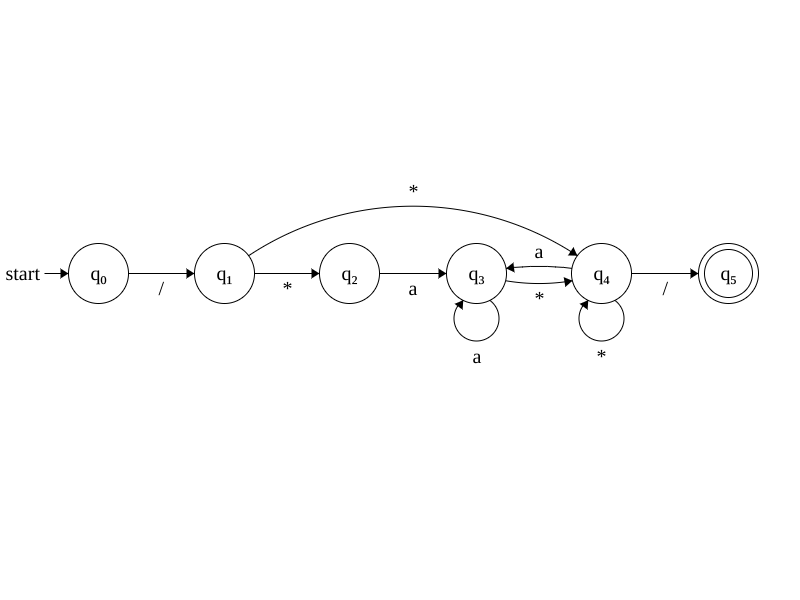
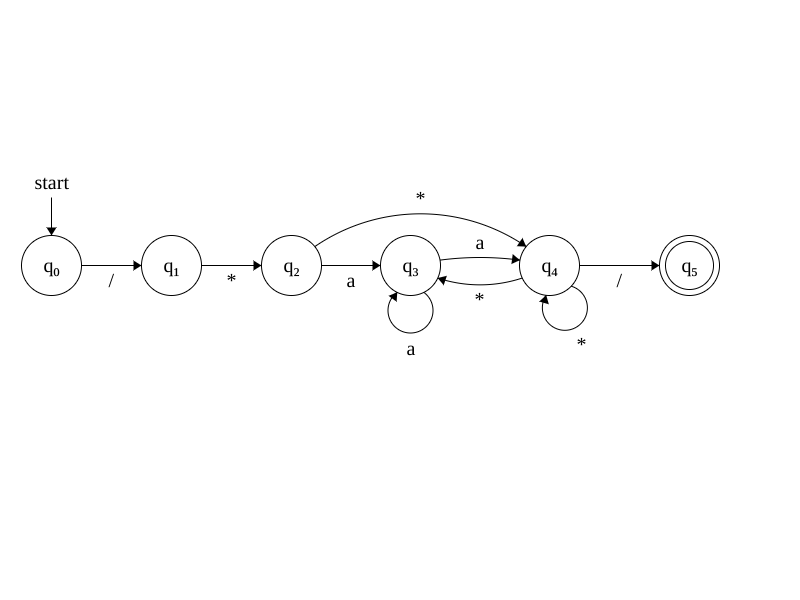
Added Esercizio 1.11

Changed region(s): [[0.0, 0.3, 0.9688, 0.57], [0.5, 0.54, 0.5312, 0.6], [0.0312, 0.3, 0.0938, 0.33]]

diff --git a/Gruppo 1 (Automi)/Esercizio 1.11/src/Esercizio11.java b/Gruppo 1 (Automi)/Esercizio 1.11/src/Esercizio11.java
@@ -1,4 +1,4 @@
-public class Esercizio10 {
+public class Esercizio11 {
 
     public static boolean scan(String s) {
         int state = 0, i = 0;
@@ -9,44 +9,56 @@ public class Esercizio10 {
             switch(state) {
           	    case 0:
             		    if(ch == '/')
-            			    state = 1;
+            			      state = 1;
+                    else if(ch == 'a' || ch == '*')
+                        state = 0;
             		    else
-            			    state = -1;
-          	    break;
+		                    state = -1;
+          	     break;
 
                 case 1:
             		    if(ch == '*')
-                    		  state = 2;
+                		    state = 2;
             		    else
-                   		  state = -1;
+               		      state = -1;
           	    break;
 
                 case 2:
                     if(ch == '*')
-                      state = 4;
+                        state = 4;
                     else if(ch == 'a')
-                      state = 3;
+                        state = 3;
                     else
-                      state = -1;
+                        state = -1;
                 break;
 
                 case 3:
                     if(ch == '*')
-                      state = 4;
+                        state = 4;
                     else if(ch == 'a')
-                      state = 3;
+                        state = 3;
                     else
-                      state = -1;
+                        state = -1;
                 break;
 
                 case 4:
                     if(ch == '*')
-                      state = 4;
+                        state = 4;
                     else if(ch == '/')
-                      state = 5;
+                        state = 5;
                     else
-                      state = -1;
+                        state = -1;
                 break;
+
+                case 5:
+                    if(ch == 'a' || ch == '*')
+                        state = 5;
+                    else if(ch == '/')
+                        state = 1;
+                    else
+                        state = -1;
+                break;
+
             } // End switch
             System.out.println(state);
         } // End While
